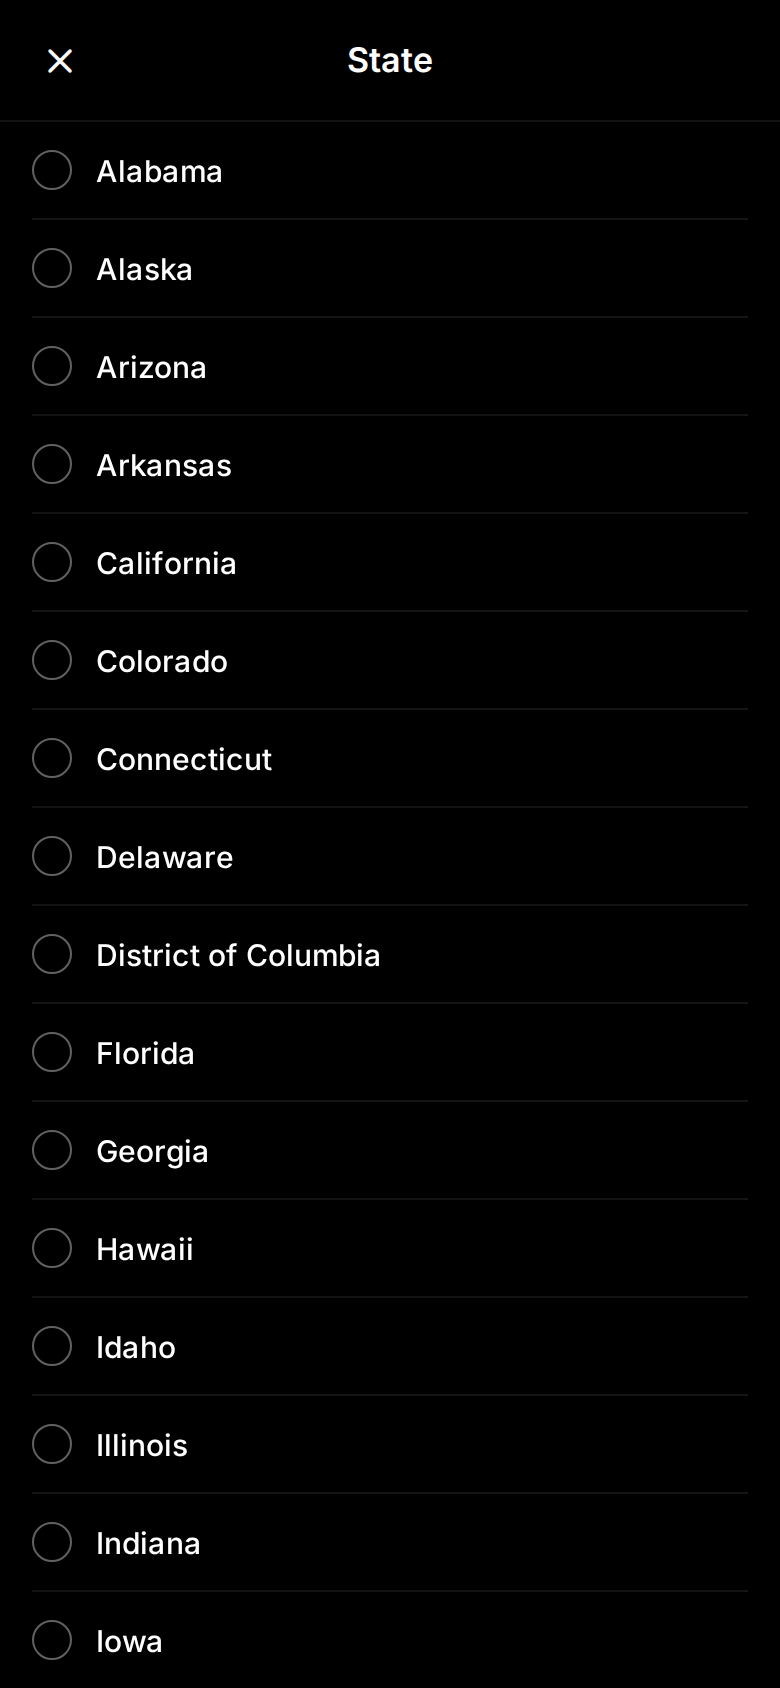
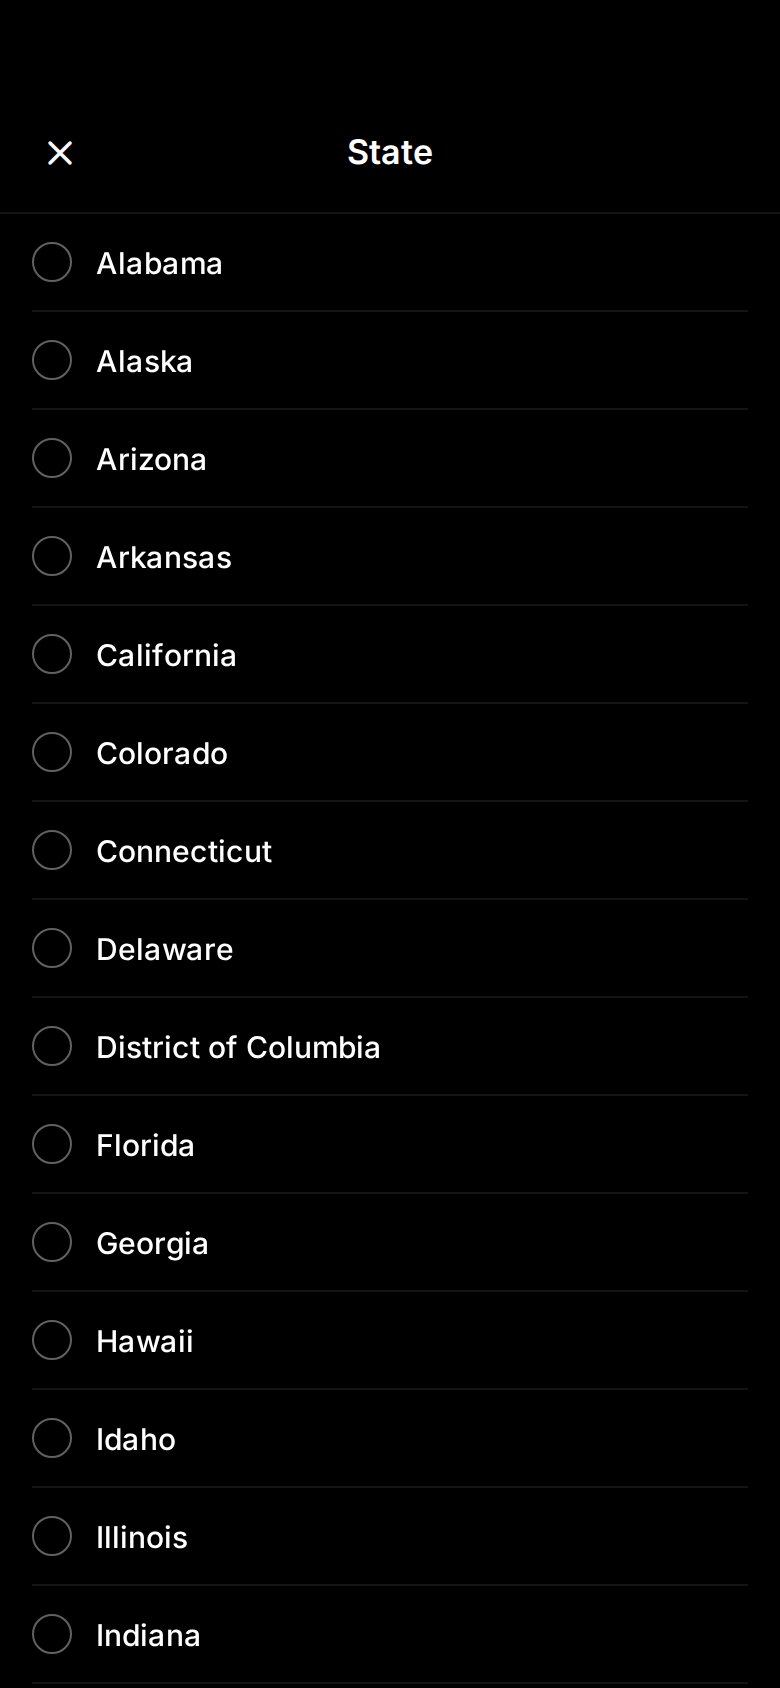
One-page checkout: picker sheet header clears the notch on web; refreshed shots
Claude-Session: https://claude.ai/code/session_01DgPbifK2VyRteBvyYrhXzg

diff --git a/artifacts/mobile/components/checkout/CheckoutPrimitives.tsx b/artifacts/mobile/components/checkout/CheckoutPrimitives.tsx
@@ -198,7 +198,7 @@ export function PickerField({
       </PressableScale>
       <FieldMessage error={visibleError} />
       <Modal visible={open} animationType="slide" presentationStyle="pageSheet" onRequestClose={() => setOpen(false)}>
-        <View style={[styles.sheet, { paddingTop: Platform.OS === 'web' ? Math.max(insets.top, SP.sm) : SP.sm }]}>
+        <View style={[styles.sheet, { paddingTop: Platform.OS === 'web' ? Math.max(insets.top, 54) : SP.sm }]}>
           <View style={styles.sheetHeader}>
             <IconButton name="x" variant="plain" onPress={() => setOpen(false)} accessibilityLabel={`Close ${label} list`} />
             <Text style={styles.sheetTitle}>{label}</Text>
